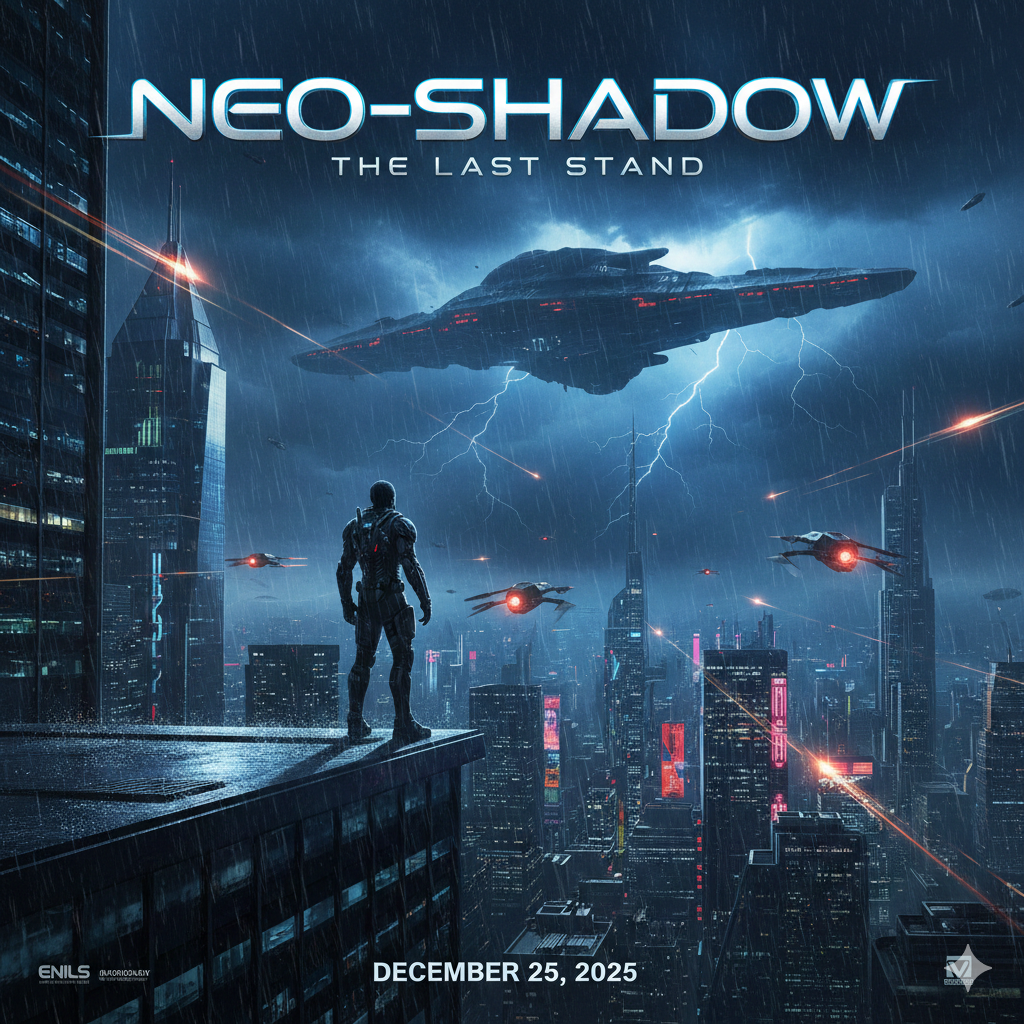
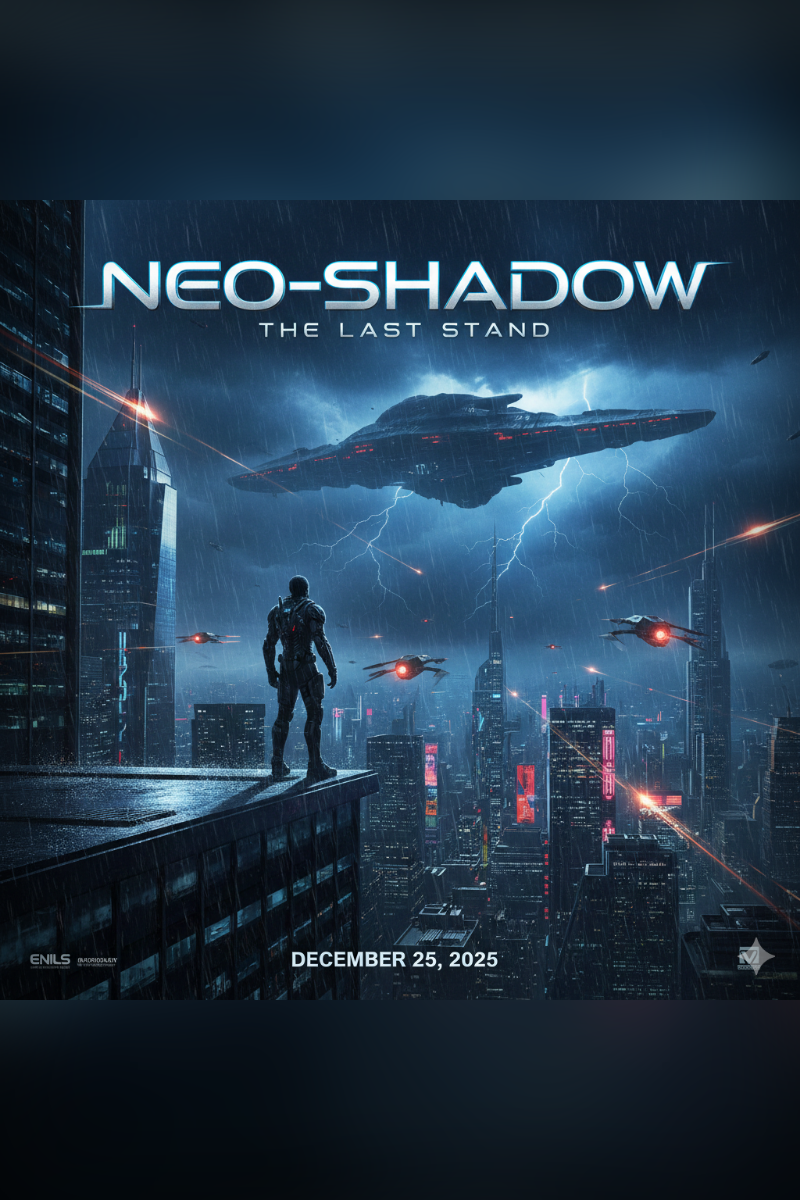
換掉真實電影素材，補上 LICENSE 與 CI
原本片單裡有四部是真實、現正上映的作品，用的也是真的海報。
除了版權問題，它還讓 README 的論述站不住腳——
「不接真實金流」的理由是「這是一間虛構影城、放的是不存在的電影」，
片單裡只要有一部是真的，這個說法就不成立。

四部改成自製的虛構作品：
  Blade of Ashes / Above the Clouds / Corridor Seven / Silent Frequency
分類、分級、片長、評分都維持原樣，首頁的篩選結果不受影響。

海報產生方式：這個環境沒有任何影像處理套件，但有 Chromium，
所以改用 HTML + SVG 排版（漸層、高斯模糊、底片顆粒都是瀏覽器本來就會的），
再以 Playwright 固定尺寸截圖輸出 800×1200 直式與 1600×900 橫式。

順帶把原有四張海報也重繪成 800×1200。它們的長寬比原本各不相同
（有一張是正方形），卡片以 object-fit: cover 裁切後標題會被切掉，
NEO-SHADOW 只看得到 EO-SHADOW。改成完整海報置中、
四周用同一張圖放大模糊墊底之後，八張才真的整齊。

另外修掉一個會讓 CI 隨機變紅的測試問題：
e2e 的退票與代客退票原本選最近一天的場次，只要測試剛好在首場前
30 分鐘內執行，就會落進退票截止時間內而找不到退票鍵。
pickShowtime 的預設日期往後挪一天，與執行時間脫鉤。

同時新增：
- LICENSE（MIT）
- .github/workflows/test.yml，push 與 PR 時跑完整 210 項測試
- README 補上測試與授權徽章、素材與授權章節，並重新產生三張截圖

diff --git a/tests/e2e.js b/tests/e2e.js
@@ -98,7 +98,15 @@ async function register(page, username, email, password) {
  * 在訂票頁選好電影／日期／場次，等座位圖出現
  * @returns {Promise<string>} 選到的場次文字
  */
-async function pickShowtime(page, movieId, dateIndex = 1) {
+/**
+ * 在訂票頁選定「電影 → 日期 → 場次」，等座位圖出現。
+ *
+ * dateIndex 預設是 2 而不是 1（index 0 是「請選擇日期」，1 是最近的一天）。
+ * 因為開演前 30 分鐘起不受理退票，選最近那天的話，只要測試剛好在首場前
+ * 半小時內執行，退票鍵就不會出現，退票與代客退票兩段會無故失敗。
+ * 那是測試選錯場次，不是程式壞了——往後挑一天就與執行時間無關。
+ */
+async function pickShowtime(page, movieId, dateIndex = 2) {
     await page.selectOption('#movie-select', movieId);
     await page.waitForFunction(() => !document.getElementById('date-select').disabled);
     await page.selectOption('#date-select', { index: dateIndex });
@@ -349,6 +357,7 @@ async function testAccountFlow(browser, errors) {
     console.log('\n# 儲值後完成購票');
     await page.goto(`${BASE}/booking.html`);
     await page.waitForSelector('#navbarDropdown', { timeout: 8000 });
+    // 這張票等一下要退，場次必須離現在夠遠（見 pickShowtime 的說明）
     await pickShowtime(page, '3');
     await page.locator('#seat-map .seat.available').first().click();
     await page.click('#confirm-booking');

diff --git a/README.md b/README.md
@@ -1,5 +1,8 @@
 # FakeTheater 電影購票系統
 
+[![測試](https://github.com/Leo0049/projectLab/actions/workflows/test.yml/badge.svg)](https://github.com/Leo0049/projectLab/actions/workflows/test.yml)
+[![授權](https://img.shields.io/badge/license-MIT-blue.svg)](LICENSE)
+
 <!-- 部署完成後把下面這行的註解拿掉，並換成實際網址：
 **線上展示：** https://你的網址 　|　展示帳號 `demo` / `demo123`
 -->
@@ -469,6 +472,21 @@ Node 是單執行緒，`better-sqlite3` 又是同步的，
 宣稱本身沒錯，卻給人錯誤的整體印象。
 現在每一列都有對應的測試，改壞了測試就會紅，而不是等別人發現。
 
+### 為什麼海報是用瀏覽器「截」出來的
+
+換掉真實電影素材時需要四張新海報，但這個環境沒有任何影像處理套件
+（沒有 Pillow、沒有 ImageMagick、沒有 sharp）。有的是 Chromium。
+
+於是海報改用 HTML + SVG 排版——漸層、高斯模糊、混合模式、字距、
+底片顆粒（`feTurbulence`）全都是瀏覽器本來就會的事——再用 Playwright
+以固定視窗尺寸截圖輸出 800×1200。同一套程式也產出 1600×900 的橫式主視覺。
+
+順帶解決了另一個問題：原有四張海報的長寬比各不相同（有一張是正方形），
+卡片用 `object-fit: cover` 裁切後標題會被切掉。統一重繪成 2:3
+（完整海報置中、四周用同一張圖放大模糊墊底）之後，八張才真的整齊。
+
+手上沒有理想的工具時，先問「現有的工具能不能做到」往往比先找新工具快。
+
 ### 為什麼正式環境要「沒設定就拒絕啟動」
 
 `JWT_SECRET` 與 `ADMIN_PASSWORD` 的預設值都公開在原始碼裡。
@@ -511,3 +529,15 @@ Node 是單執行緒，`better-sqlite3` 又是同步的，
 - 金流只實作信用卡一種付款方式。
 - SQLite 單機資料庫，沒有做讀寫分離或多機部署。
   座位並發的三層防護在多行程下已驗證有效，但跨主機需要換成 PostgreSQL 之類的方案。
+
+## 素材與授權
+
+程式碼以 [MIT 授權](LICENSE) 釋出。
+
+站上的八部電影全部是虛構的，海報與主視覺也都是本專案自製，沒有使用任何真實作品的素材：
+
+- `pic/1`–`pic/4` 由 AI 生成後重新裁切為統一的 2:3 版面
+- `pic/5`–`pic/8` 以 HTML/SVG 排版後用 Chromium 截圖產生（見〈技術決策〉）
+
+這件事不只是版權考量。README 解釋「為什麼不接真實金流」時的理由是
+「這是一間虛構影城、放的是不存在的電影」——片單裡只要有一部是真的，這個論述就不成立。
